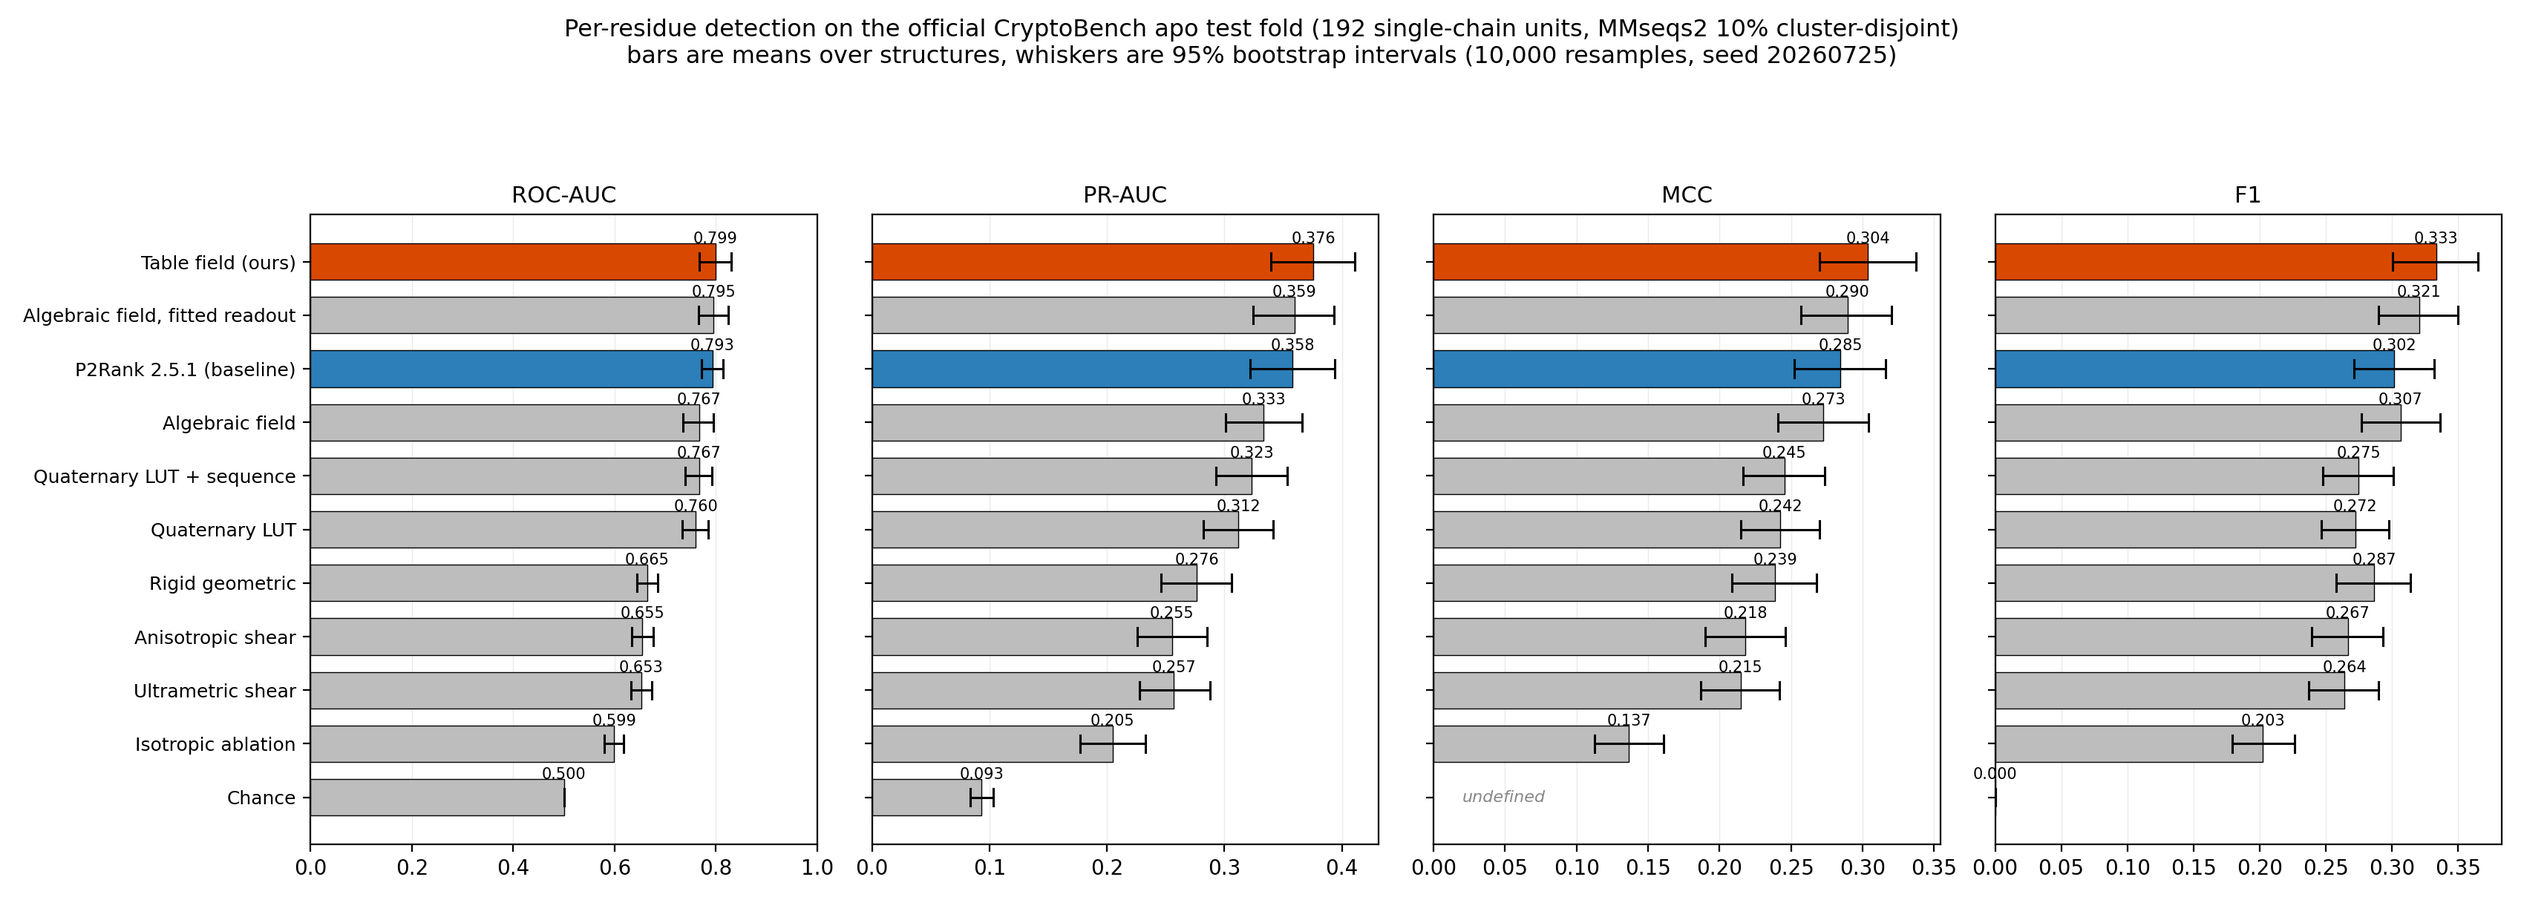
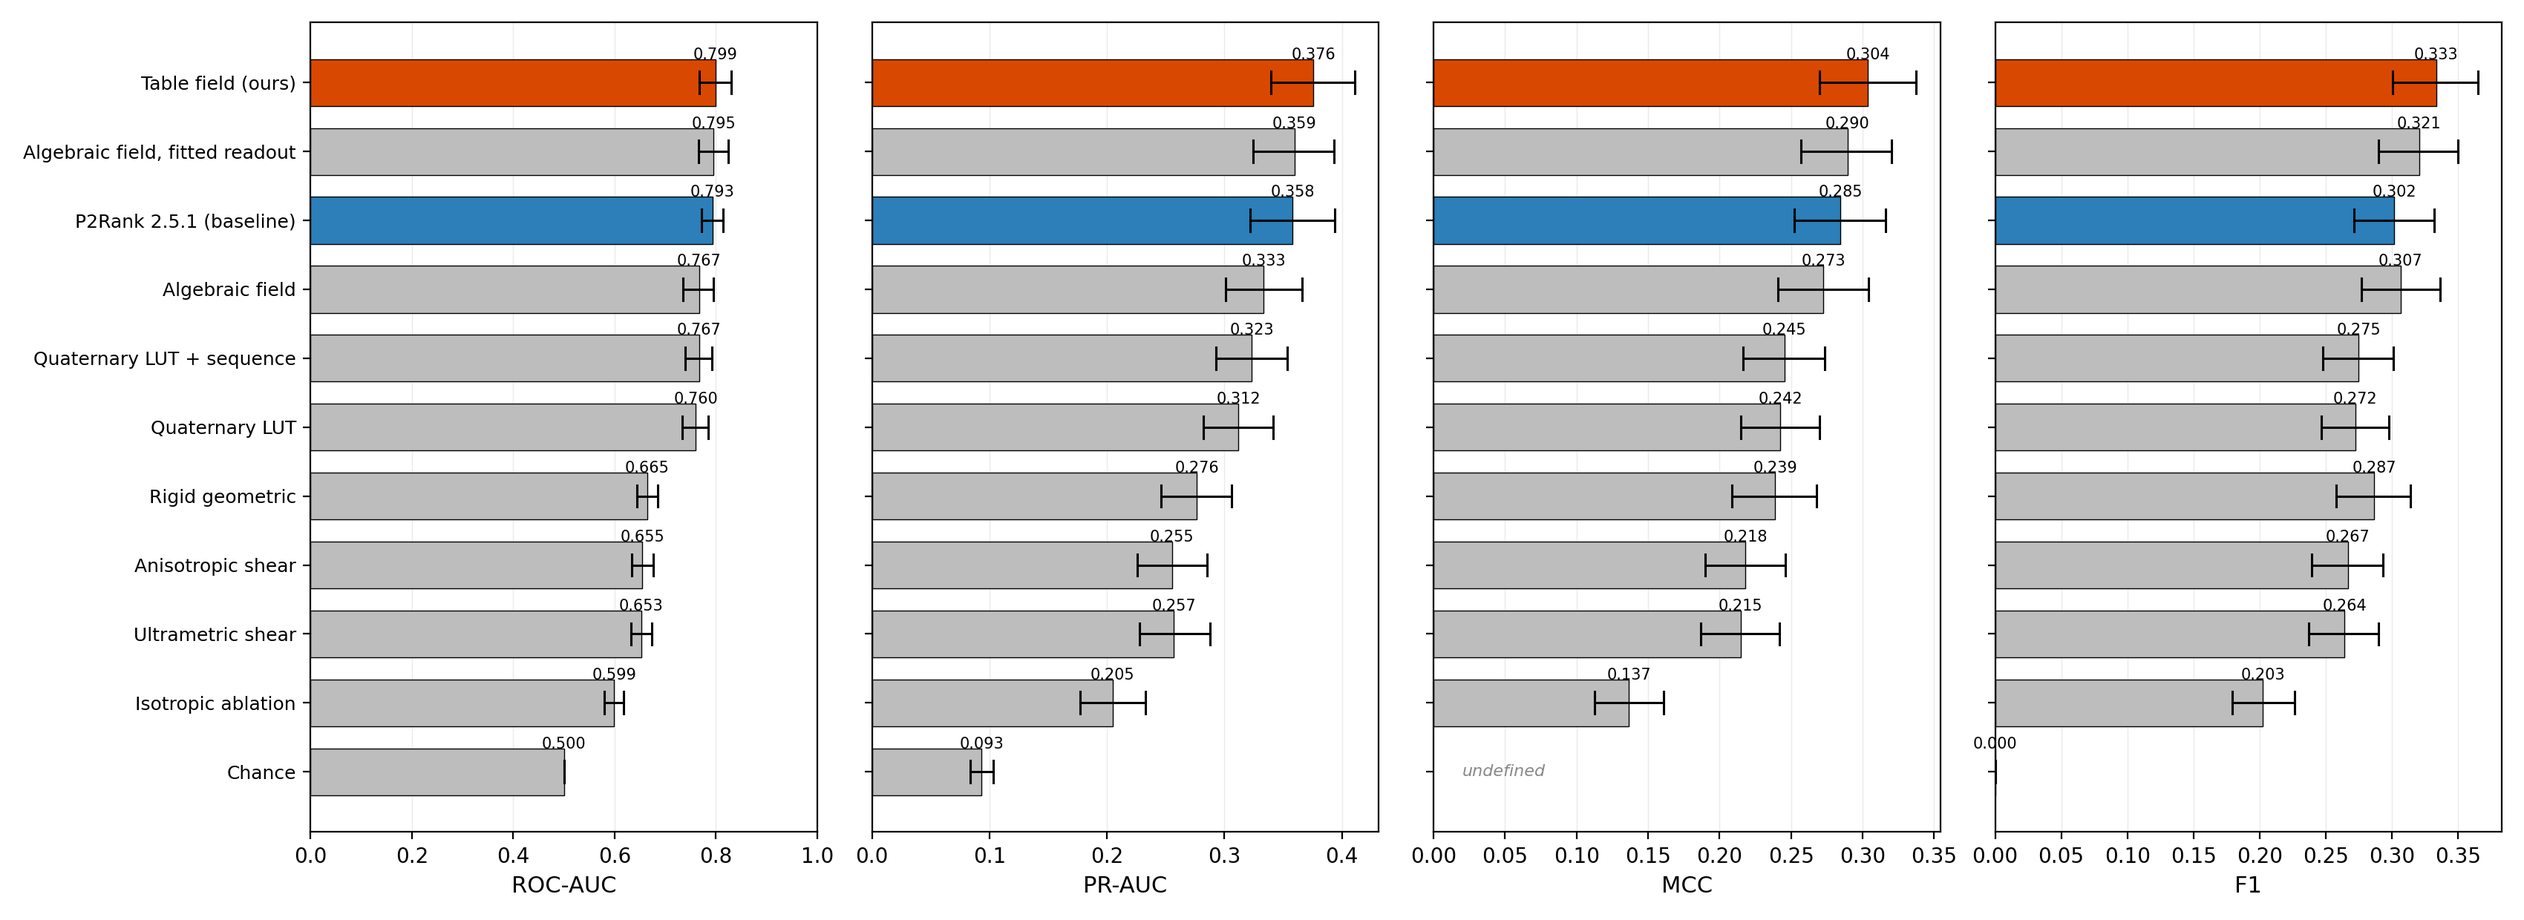
Take the titles out of the figures and generate the captions instead
Both images carried their descriptive text in the pixels: a two-line suptitle on
the metrics figure, a title and a subtitle band on the forest plot. No journal
figure is laid out that way -- the text is a caption, it belongs under the
figure, and a manuscript that ships it inside a PNG cannot typeset it, cannot
have it copy-edited, and cannot correct a number in it without redrawing the
image. The titles are gone and the figures are shorter for it.

The text they carried is not dropped, it is generated. Each figure function now
returns its caption beside its path, composed from the same frozen artifacts the
plot is drawn from, so the structure count, the resampling seed and the fold
standard error in the caption are the ones in the data rather than the ones that
were true when someone typed them. The captions go into FIGURE_PROVENANCE.json
next to the image digests, into a marked block in the README under each image,
and into paper/frozen_numbers.tex as \FigCaptionI and \FigCaptionII.

The paper shows the figures for the first time. It had two images sitting in the
repository that it never included, so a reader of the PDF saw the table and a
reader of the README saw the plots. Both are now \includegraphics with
\caption{\FigCaptionI{}} beneath them, which means the manuscript caption and the
README caption cannot drift: they are the same string from the same file.

make artifacts gained the check that closes the loop. It already refused an image
[…]

diff --git a/tools/make_official_figures.py b/tools/make_official_figures.py
@@ -14,7 +14,7 @@ number in a figure cannot disagree with a number in a sentence.
 
 Figure 1, the four metrics side by side with bootstrap intervals. Ordered by
 ROC-AUC, P2Rank marked, so the eye gets the comparison the benchmark exists for
-without a caption having to assert it.
+before it reaches the caption.
 
 Figure 2, the paired differences against P2Rank as a forest plot, one row per
 metric, with the interval and the shared-structure count. This is the honest
@@ -23,6 +23,15 @@ a bar chart of point estimates would quietly imply an ordering the fold cannot
 support. The ROC-AUC row also carries the standard error of a fold mean, because
 a margin has to be read against the scale of the measurement rather than against
 zero.
+
+Neither image carries a title. Both used to: a two-line suptitle on the first, a
+title and a subtitle band on the second. In a manuscript that text is the
+caption, it belongs under the figure, and burning it into the pixels means it
+cannot be typeset, cannot be translated, and cannot be corrected without
+redrawing. So the descriptive text is emitted here instead, from the same frozen
+artifacts the plots are drawn from, into FIGURE_PROVENANCE.json and into the
+README block below each image. A caption stating a seed and a structure count is
+as perishable as any other number in this repository and is generated like one.
 
 Usage: PYTHONPATH=src python3.12 tools/make_official_figures.py
 """
@@ -44,7 +53,10 @@ TELEMETRY = ROOT / "results/cryptobench_official/TELEMETRY.json"
 SEEDS = ROOT / "results/official_fold/SEED_SENSITIVITY.json"
 FIGDIR = ROOT / "figures"
 PROVENANCE = ROOT / "results/official_fold/FIGURE_PROVENANCE.json"
+README = ROOT / "README.md"
 SOURCES = (BOOT, LEDGER, TELEMETRY, SEEDS)
+BEGIN = "<!-- BEGIN AUTOGENERATED: figures -->"
+END = "<!-- END AUTOGENERATED: figures -->"
 
 METRICS = [("residue_auc", "ROC-AUC"), ("residue_pr_auc", "PR-AUC"),
            ("residue_mcc", "MCC"), ("residue_f1", "F1")]
@@ -101,25 +113,32 @@ def figure_metrics(boot: dict) -> Path:
                 ax.plot([lo, lo], [y - 0.16, y + 0.16], color="black", lw=1.1)
                 ax.plot([hi, hi], [y - 0.16, y + 0.16], color="black", lw=1.1)
             ax.text(pt, y + 0.34, f"{pt:.3f}", fontsize=7.5, ha="center")
-        ax.set_title(title, fontsize=11)
+        # Below the axes, not above it. A panel identifier is the one piece of
+        # text a figure cannot do without, and in a manuscript nothing sits on
+        # top of a plot: what the reader needs to interpret it belongs in the
+        # caption, and the caption is under the image.
+        ax.set_xlabel(title, fontsize=11)
         ax.set_xlim(0, 1.0 if key == "residue_auc" else None)
         ax.grid(axis="x", alpha=0.25, lw=0.5)
         ax.set_axisbelow(True)
     axes[0].set_yticks(list(range(len(names)))[::-1])
     axes[0].set_yticklabels([LABEL.get(m, m) for m in names], fontsize=9)
 
-    n = boot["n_structures"]
-    fig.suptitle(
-        f"Per-residue detection on the official CryptoBench apo test fold "
-        f"({n} single-chain units, MMseqs2 10% cluster-disjoint)\n"
-        f"bars are means over structures, whiskers are 95% bootstrap intervals "
-        f"({boot['n_boot']:,} resamples, seed {boot['seed']})",
-        fontsize=11.5)
-    fig.tight_layout(rect=(0, 0.02, 1, 0.9))
+    fig.tight_layout()
     out = FIGDIR / "fig_official_fold_metrics.png"
     fig.savefig(out, dpi=200)
     plt.close(fig)
-    return out
+
+    caption = (
+        f"Per-residue detection on the official CryptoBench apo test fold "
+        f"({boot['n_structures']} single-chain units, MMseqs2 10% "
+        f"cluster-disjoint). Bars are means over structures, ordered by "
+        f"ROC-AUC; whiskers are 95% bootstrap intervals ({boot['n_boot']:,} "
+        f"resamples, seed {boot['seed']}). The table field is drawn in orange "
+        f"and P2Rank 2.5.1, the baseline, in blue. MCC is undefined for a "
+        f"detector that calls nothing positive; those entries are marked "
+        f"rather than left blank.")
+    return out, caption
 
 
 def _seed_survival() -> dict[str, tuple[int, int]]:
@@ -155,7 +174,9 @@ def figure_paired(boot: dict, led: dict) -> Path:
         if d and d.get("delta_point") is not None:
             rows.append((key, title, d))
 
-    fig, ax = plt.subplots(figsize=(11.5, 5.0))
+    # Four rows. The height used to carry a title and a subtitle band as well;
+    # without them the same canvas leaves the rows swimming in white space.
+    fig, ax = plt.subplots(figsize=(11.5, 3.4))
     ys = list(range(len(rows)))[::-1]
     for y, (key, title, d) in zip(ys, rows):
         lo, hi, pt = d["delta_ci_low"], d["delta_ci_high"], d["delta_point"]
@@ -188,34 +209,70 @@ def figure_paired(boot: dict, led: dict) -> Path:
     ax.set_xlim(-0.05, 0.19)
     ax.grid(axis="x", alpha=0.25, lw=0.5)
     ax.set_axisbelow(True)
-    ax.set_title(
-        "Paired differences against P2Rank, on the structures where both are defined",
-        fontsize=12)
-    fig.text(0.5, 0.925,
-             f"shaded band is \u00b11 standard error of a fold mean ({se:.4f}); "
-             f"{led['n_distinct_architectures_evaluated']} of our architectures "
-             f"have been scored on this fold, so a margin inside it is not an "
-             f"ordering",
-             ha="center", fontsize=9, color="#444444")
-    fig.tight_layout(rect=(0, 0, 1, 0.90))
+    fig.tight_layout()
     out = FIGDIR / "fig_paired_vs_p2rank.png"
     fig.savefig(out, dpi=200)
     plt.close(fig)
-    return out
+
+    caption = (
+        f"Paired differences against P2Rank, on the structures where both are "
+        f"defined: one row per metric, showing the point estimate, the 95% "
+        f"bootstrap interval and the number of shared structures. The shaded "
+        f"band is \u00b11 standard error of a fold mean ({se:.4f}); "
+        f"{led['n_distinct_architectures_evaluated']} of our architectures have "
+        f"been scored on this fold, so a margin inside that band is not an "
+        f"ordering. A row is called resolved only where the interval clears "
+        f"zero and the verdict survives every resampling seed, which is why "
+        f"three of the four are not.")
+    return out, caption
 
 
 def _sha(p: Path) -> str:
     return hashlib.sha256(p.read_bytes()).hexdigest()
 
 
+def readme_block(drawn: list[tuple[Path, str]]) -> str:
+    """The images and their captions, in the form the README carries them.
+
+    Generated rather than typed, for the reason every other number here is:
+    a caption states counts, seeds and a standard error, and a hand-written one
+    goes stale the first time the fold is rescored. Captions sit under their
+    image because that is where a reader of the manuscript will look for them,
+    and nothing is drawn on top of the plot itself.
+    """
+    out = [BEGIN, ""]
+    for i, (path, caption) in enumerate(drawn, 1):
+        out.append(f"![Figure {i}](figures/{path.name})")
+        out.append("")
+        out.append(f"**Figure {i}.** {caption}")
+        out.append("")
+    out.append(END)
+    return "\n".join(out)
+
+
+def _write_readme(drawn: list[tuple[Path, str]]) -> bool:
+    text = README.read_text()
+    if BEGIN not in text or END not in text:
+        print(f"README is missing the figure markers:\n  {BEGIN}\n  {END}")
+        return False
+    head, rest = text.split(BEGIN, 1)
+    _, tail = rest.split(END, 1)
+    README.write_text(head + readme_block(drawn) + tail)
+    return True
+
+
 def main() -> int:
     FIGDIR.mkdir(exist_ok=True)
     boot = json.loads(BOOT.read_text())
     led = json.loads(LEDGER.read_text())
-    images = [figure_metrics(boot), figure_paired(boot, led)]
+    drawn = [figure_metrics(boot), figure_paired(boot, led)]
+    images = [p for p, _ in drawn]
     for out in images:
         print(f"wrote {out.relative_to(ROOT)} "
               f"({out.stat().st_size / 1e3:.0f} kB)")
+    if not _write_readme(drawn):
+        return 1
+    print(f"wrote the figure block in {README.relative_to(ROOT)}")
 
     # Naming the generator is not enough: an image keeps its filename while the
     # numbers underneath it move, and a stale plot passes a name check silently.
@@ -230,8 +287,9 @@ def main() -> int:
         "generator": "tools/make_official_figures.py",
         "sources": {str(p.relative_to(ROOT)): _sha(p)
                     for p in SOURCES if p.exists()},
-        "figures": {p.name: {"sha256": _sha(p), "bytes": p.stat().st_size}
-                    for p in images},
+        "figures": {p.name: {"sha256": _sha(p), "bytes": p.stat().st_size,
+                             "caption": c}
+                    for p, c in drawn},
     }, indent=2) + "\n")
     print(f"wrote {PROVENANCE.relative_to(ROOT)}")
     return 0

diff --git a/tools/emit_frozen_numbers.py b/tools/emit_frozen_numbers.py
@@ -27,6 +27,24 @@ TABFIELD = ROOT / "data/cryptobench_apo/TABLE_FIELD.json"
 WIDESEL = ROOT / "results/architecture_sweep/COUNTERATTACK_WIDE2.json"
 WIDEPROBE = ROOT / "results/official_fold/COUNTERATTACK_WIDE_PROBE.json"
 LEDGER = ROOT / "results/official_fold/TEST_FOLD_ACCESS_LEDGER.json"
+FIGPROV = ROOT / "results/official_fold/FIGURE_PROVENANCE.json"
+
+# Characters that are prose in a JSON caption and syntax in TeX. The captions
+# are generated from the artifacts, so they are not free to avoid them.
+_TEX_ESCAPES = {
+    "\\": r"\textbackslash{}", "&": r"\&", "%": r"\%", "$": r"\$",
+    "#": r"\#", "_": r"\_", "{": r"\{", "}": r"\}", "~": r"\textasciitilde{}",
+    "^": r"\textasciicircum{}", "\u00b1": r"$\pm$", "\u00c5": r"\AA{}",
+    "\u2014": "---", "\u2013": "--",
+}
+
+
+def _tex(text: str) -> str:
+    return "".join(_TEX_ESCAPES.get(ch, ch) for ch in text)
+
+
+def _roman(i: int) -> str:
+    return ("One", "Two", "Three", "Four", "Five", "Six")[i - 1]
 TELEMETRY = ROOT / "results/cryptobench_official/TELEMETRY.json"
 SELECTION = ROOT / "results/architecture_sweep/TRAIN_ONLY_SELECTION.json"
 CEILING = ROOT / "results/architecture_sweep/FEATURE_CEILING_DIAGNOSIS.json"
@@ -155,6 +173,21 @@ def build() -> str:
                  f"{{{sel['selected']['pick_half_roc_auc']:.4f}}}")
         L.append(f"\\newcommand{{\\NTabCandidates}}"
                  f"{{{len(sel['candidates'])}}}")
+
+    if FIGPROV.exists():
+        # The captions, so that the figure under a paragraph in the manuscript
+        # and the figure under the same paragraph in the README say the same
+        # sentence. They state structure counts, a seed and a standard error;
+        # typed twice they would disagree within a revision, and the reader
+        # would have no way to tell which copy was current.
+        # Insertion order, not sorted: the generator draws them in the order
+        # the README numbers them, and a caption macro numbered differently
+        # from the image above it is worse than no macro.
+        prov = json.loads(FIGPROV.read_text())
+        for i, rec in enumerate((prov.get("figures") or {}).values(), 1):
+            if rec.get("caption"):
+                L.append(f"\\newcommand{{\\FigCaption{_roman(i)}}}"
+                         f"{{{_tex(rec['caption'])}}}")
 
     if LEDGER.exists():
         # How often the held-out fold has been scored, and by how many

diff --git a/tools/classify_artifacts.py b/tools/classify_artifacts.py
@@ -152,6 +152,7 @@ def build() -> dict:
 FIGURES = ROOT / "figures"
 FIGURE_GENERATOR = "tools/make_official_figures.py"
 FIGURE_PROVENANCE = RESULTS / "official_fold/FIGURE_PROVENANCE.json"
+README = ROOT / "README.md"
 
 
 def _sha(p: Path) -> str:
@@ -210,6 +211,35 @@ def _figure_problems() -> list[str]:
             problems.append(
                 f"figures/{p.name}: figures/ holds images only; data and "
                 f"generators live in results/ and tools/")
+
+    problems.extend(_caption_problems(recorded))
+    return problems
+
+
+def _caption_problems(recorded: dict) -> list[str]:
+    """The caption under an image must be the one the generator emitted.
+
+    Neither figure carries a title any more: the descriptive text is a caption,
+    it sits under the image, and it states a structure count, a resample count,
+    a seed and a standard error. That makes it as perishable as any other number
+    here, so it is generated with the plot and checked like the plot. Checking
+    it needs no plotting library, which is why it lives in this gate and not in
+    ``make figures``.
+    """
+    problems: list[str] = []
+    if not recorded or not README.exists():
+        return problems
+    text = README.read_text()
+    for name, rec in sorted(recorded.items()):
+        caption = (rec or {}).get("caption")
+        if not caption:
+            problems.append(
+                f"figures/{name}: {FIGURE_PROVENANCE.name} records no caption, "
+                f"so the text under the image is not tied to the artifacts")
+        elif caption not in text:
+            problems.append(
+                f"figures/{name}: the caption in README.md is not the one "
+                f"{FIGURE_PROVENANCE.name} recorded; run make figures")
     return problems
 
 

diff --git a/paper/frozen_numbers.tex b/paper/frozen_numbers.tex
@@ -37,6 +37,8 @@
 \newcommand{\TabOperatingQ}{0.09}
 \newcommand{\TabPickAuc}{0.8045}
 \newcommand{\NTabCandidates}{9}
+\newcommand{\FigCaptionOne}{Per-residue detection on the official CryptoBench apo test fold (192 single-chain units, MMseqs2 10\% cluster-disjoint). Bars are means over structures, ordered by ROC-AUC; whiskers are 95\% bootstrap intervals (10,000 resamples, seed 20260725). The table field is drawn in orange and P2Rank 2.5.1, the baseline, in blue. MCC is undefined for a detector that calls nothing positive; those entries are marked rather than left blank.}
+\newcommand{\FigCaptionTwo}{Paired differences against P2Rank, on the structures where both are defined: one row per metric, showing the point estimate, the 95\% bootstrap interval and the number of shared structures. The shaded band is $\pm$1 standard error of a fold mean (0.0161); 11 of our architectures have been scored on this fold, so a margin inside that band is not an ordering. A row is called resolved only where the interval clears zero and the verdict survives every resampling seed, which is why three of the four are not.}
 \newcommand{\NArchOnFold}{11}
 \newcommand{\NOurDetectors}{9}
 \newcommand{\NStandaloneProbes}{4}

diff --git a/paper/MAIN_CRYPTOBENCH_GEOAUDIT.tex b/paper/MAIN_CRYPTOBENCH_GEOAUDIT.tex
@@ -3,6 +3,8 @@
 \usepackage{amssymb}
 \usepackage{geometry}
 \usepackage{booktabs}
+\usepackage{graphicx}
+\graphicspath{{../figures/}}
 \usepackage[hidelinks]{hyperref}
 \geometry{a4paper, margin=1in}
 
@@ -467,6 +469,20 @@ positive point estimate inside an interval that contains zero is not evidence of
 superiority, and we do not read it as such --- which is also why the ROC-AUC
 column here is reported as parity even though the field leads it.}
 \end{table}
+
+\begin{figure}[t]
+\centering
+\includegraphics[width=\textwidth]{fig_official_fold_metrics.png}
+\caption{\FigCaptionOne{}}
+\label{fig:metrics}
+\end{figure}
+
+\begin{figure}[t]
+\centering
+\includegraphics[width=\textwidth]{fig_paired_vs_p2rank.png}
+\caption{\FigCaptionTwo{}}
+\label{fig:paired}
+\end{figure}
 
 \paragraph{The architecture was not chosen on the test fold.} \NCandidates{}
 fusion architectures were compared during development. Selecting among them by

diff --git a/README.md b/README.md
@@ -34,18 +34,30 @@ official CryptoBench receptor-only benchmark.
 - Not claimed: superiority on ROC-AUC, PR-AUC or MCC; binding affinity; candidate
   efficacy; global novelty. See `contracts/GEOAUDIT_PAPER_SCOPE.json`.
 
-![Four metrics on the official fold](figures/fig_official_fold_metrics.png)
+<!-- BEGIN AUTOGENERATED: figures -->
 
-![Paired differences against P2Rank](figures/fig_paired_vs_p2rank.png)
+![Figure 1](figures/fig_official_fold_metrics.png)
 
-Both figures are regenerated from the frozen artifacts by `make figures`.
+**Figure 1.** Per-residue detection on the official CryptoBench apo test fold (192 single-chain units, MMseqs2 10% cluster-disjoint). Bars are means over structures, ordered by ROC-AUC; whiskers are 95% bootstrap intervals (10,000 resamples, seed 20260725). The table field is drawn in orange and P2Rank 2.5.1, the baseline, in blue. MCC is undefined for a detector that calls nothing positive; those entries are marked rather than left blank.
+
+![Figure 2](figures/fig_paired_vs_p2rank.png)
+
+**Figure 2.** Paired differences against P2Rank, on the structures where both are defined: one row per metric, showing the point estimate, the 95% bootstrap interval and the number of shared structures. The shaded band is ±1 standard error of a fold mean (0.0161); 11 of our architectures have been scored on this fold, so a margin inside that band is not an ordering. A row is called resolved only where the interval clears zero and the verdict survives every resampling seed, which is why three of the four are not.
+
+<!-- END AUTOGENERATED: figures -->
+
+Neither image carries a title, and neither is meant to: the descriptive text is
+a caption, it sits under the figure, and it is generated from the same frozen
+artifacts as the plot rather than typed. Both figures and both captions are
+regenerated by `make figures`.
 `make artifacts` rejects any image in `figures/` that the generator does not
-produce, and `results/official_fold/FIGURE_PROVENANCE.json` records the SHA-256
-of each image together with the digests of the four artifacts it was drawn from,
-so a plot whose inputs have moved fails CI instead of quietly showing last
-week's numbers. Checking that needs no plotting library, which is why CI
-verifies the images without redrawing them. They are the first images this
-README has ever carried. The
+produce, rejects a caption in this README that does not match the one the
+generator emitted, and `results/official_fold/FIGURE_PROVENANCE.json` records
+the SHA-256 of each image together with the digests of the four artifacts it was
+drawn from, so a plot whose inputs have moved fails CI instead of quietly
+showing last week's numbers. Checking that needs no plotting library, which is
+why CI verifies the images without redrawing them. They are the first images
+this README has ever carried. The
 six that `figures/` held before them are gone from the tree and kept in
 `_local/figures_superseded`: one plotted the 14-structure ESR1 pilot on a split
 its own summary records as not cluster-disjoint, and the other five plotted
